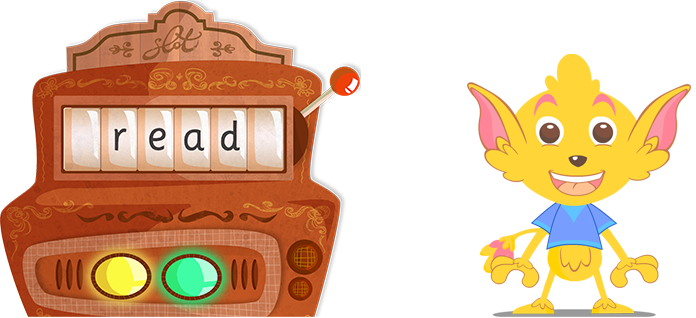
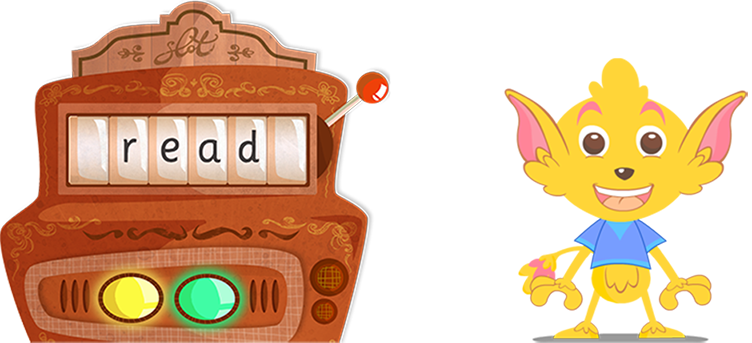
added js file and made changes to homepage and how it works

diff --git a/app/static/index.html b/app/static/index.html
@@ -1,7 +1,7 @@
 <!DOCTYPE html>
 <html>
 <head>
-    <title>Learn to read with Pip</title>
+    <title>Learn to read with Pip - helping children learn to read</title>
     <meta http-equiv="Content-Type" content="text/html; charset=utf-8">
     <meta name="viewport" content="width=device-width, initial-scale=1.0">
     
@@ -61,12 +61,23 @@
 
     <div class="container homepage-frame-banner">
         <div class="span12 text-center">
-            <img src="assets/homepage_picture_frame_banner_still_building.png">
+            
         </div>
     </div>
 
 
-    <section id="feature_slider" class="">
+    <section id="feature_slider" class="" style="position:relative;">
+        <div class="homepage-not-ready-banner">
+            <img id="splash-banner-homepage" src="assets/homepage_top_banner.png">
+        </div>
+        <div class="homepage-slider-headline">
+
+               
+                <!-- <h5><span class="orange-font">L</span>earn <span class="yellow-font">t</span>o <span class="blue-font">r</span>ead <span class="red-font">w</span>ith <span class="orange-font">P</span>ip
+               is a digital education programme</br> for iPad and computers designed to help your child<br /> master the most important skill they will ever learn:<br /> how to read.</h5> -->
+                <a href="_beta-testing.html" class="btn btn-large btn-warning">Download for free</a>
+            </div>
+
         <!-- 
             Each slide is composed by <img> and .info
             - .info's position is customized with css in index.css
@@ -82,30 +93,30 @@
             For the backgrounds, you can combine from the bgs folder :D
         -->
         <article class="slide" id="showcasing" style="background: url('img/home_hero_bg_1.jpg') repeat-x top center;">
-            <img class="asset left-30 sp8000 t100 z1" src="img/home_hero_item_1.png" />
+            <img class="asset left-170 sp2000 t450 z1" src="img/home_hero_item_1.png" />
             <div class="info" style="margin-top: 30px;">
-                <h2>Give your child the magic of reading.</h2>
+                <!-- <h2>Give your child the magic of reading.</h2>
                 <p>Learn to read with Pip is a digital education programme designed to help your child master the most important skill they will ever learn: how to read.</p>
                 <a href="_beta-testing.html" class="btn btn-large btn-warning">Download for free</a>
                 <br />
                 <br />
-                <p><a href="_features.html">Find out more</a></p>
+                <p><a href="_features.html">Find out more</a></p> -->
             </div>
         </article>
         <article class="slide" id="ideas" style="background: url('img/home_hero_bg_2.jpg') repeat-x top center;">
             <div class="info">
-                <h2>Give your child the magic of reading.</h2>
+                <!-- <h2>Give your child the magic of reading.</h2>
                 <p>Learn to read with Pip is a digital education programme designed to help your child master the most important skill they will ever learn: how to read.</p>
-                <a href="_beta-testing.html" class="btn btn-large btn-warning">Download for free</a>
+                <a href="_beta-testing.html" class="btn btn-large btn-warning">Download for free</a> -->
             </div>
-            <img class="asset left-210 sp2000 t180 z2" src="img/home_hero_item_2.png" />
+            <img class="asset left-170 sp2000 t450 z2" src="img/home_hero_item_2.png" />
         </article>
         <article class="slide" id="tour" style="background: url('img/home_hero_bg_3.jpg') repeat-x top center;">
-            <img class="asset left-310 sp2000 t113 z3" src="img/home_hero_item_3.png" />
+            <img class="asset left-170 sp2000 t453 z3" src="img/home_hero_item_3.png" />
             <div class="info third-slide">
-                <h2>Give your child the magic of reading.</h2>
+                <!-- <h2>Give your child the magic of reading.</h2>
                 <p>Learn to read with Pip is a digital education programme designed to help your child master the most important skill they will ever learn: how to read.</p>
-                <a href="_beta-testing.html" class="btn btn-large btn-warning">Download for free</a>
+                <a href="_beta-testing.html" class="btn btn-large btn-warning">Download for free</a> -->
                 
             </div>
         </article>
@@ -236,5 +247,6 @@
     <script src="js/theme.js"></script>
 
     <script type="text/javascript" src="js/index-slider.js"></script>
+    <script type="text/javascript" src="js/script.js"></script>
 </body>
 </html>

diff --git a/app/static/css/theme.css b/app/static/css/theme.css
@@ -186,6 +186,23 @@ a#logo-symbol-link:hover{
 	height: 340px;
 }
 
+.orange-font{
+	color:#ea6530;
+}
+
+.red-font{
+	color:#ed1c24;
+}
+
+.yellow-font{
+	color:#fad047;
+}
+
+.blue-font{
+	color:#4ba9df;
+}
+
+
 /*  Homepage
 --------------------------------------------------*/
 
@@ -195,6 +212,36 @@ a#logo-symbol-link:hover{
 
 .iphone-beta-test{
 	display:none;
+}
+
+#splash-banner-homepage{
+	display:none;
+	position: relative;
+	top:-505px;
+
+
+}
+
+.homepage-not-ready-banner{
+	position:absolute;
+	z-index: 20;
+	text-align:center;
+	width: 100%;
+
+}
+
+.homepage-slider-headline{
+	position:absolute;
+	top:360px;
+	z-index: 20;
+	text-align:center;
+	width: 100%;
+}
+
+.homepage-slider-headline h2{
+	color: #fff;
+    font-size: 48px;
+    font-weight: normal;
 }
 
   /*Parent education page

diff --git a/app/static/css/index.css b/app/static/css/index.css
@@ -5,7 +5,7 @@
 -------------------------------------------------- */
 #feature_slider {
     height:720px;
-    height: 480px;
+    height: 780px;
     background: #262626;
     z-index: 1;
     
@@ -66,7 +66,7 @@
 .slide {
     width: 100%;
     height: 720px;
-    height: 480px;
+    height: 780px;
     position: absolute;
     display: none;
     overflow: hidden;

diff --git a/app/static/js/script.js b/app/static/js/script.js
@@ -1,0 +1,8 @@
+
+	
+$(document).ready(function(){
+	
+	$('#splash-banner-homepage').delay(1000).show().animate({ top: 0 }, {duration: 1000, easing: 'easeOutBounce'});
+
+});
+
